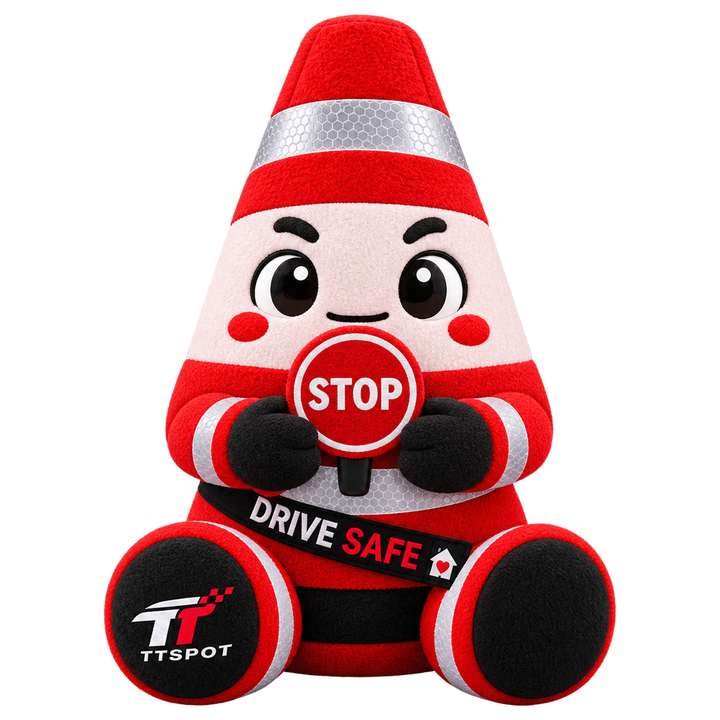
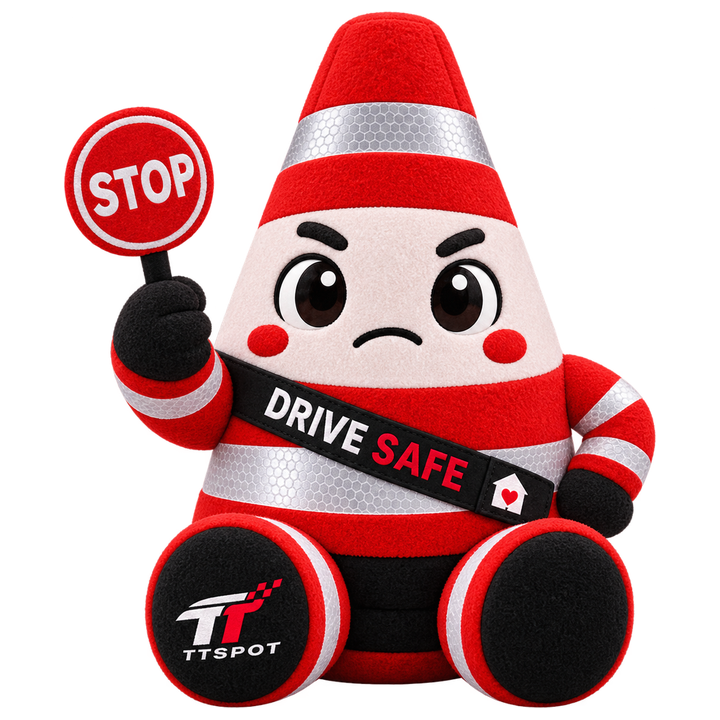
TiTi stop pose redrawn: arms from the sides like the other poses (the old render grew them out of the chest)

diff --git a/tool/art_stop_fix.py b/tool/art_stop_fix.py
@@ -1,0 +1,24 @@
+"""Redraw assets/titi/stop.png: the batch 2 render grew the arms out of the
+front of the body. Same pipeline and look as tool/art_batch2.py.
+
+  python tool/art_stop_fix.py      # two tries into tool/titi_gen/batch2/
+"""
+import os, sys
+sys.path.insert(0, os.path.dirname(os.path.abspath(__file__)))
+import art_batch2 as b2
+
+ARMS = ("ARMS, follow strictly: exactly two short plush arms, one on each SIDE of the cone body, attached at shoulder height "
+        "exactly like the thumbs-up reference; the arms are plain red-and-white plush like the body, no separate sleeves, "
+        "nothing grows out of the front of the chest; the DRIVE SAFE sash stays diagonal across the front, unbroken. ")
+STOP = [
+    ARMS + "Pose: his RIGHT arm raised out to the side holding a small round red STOP sign on a short black handle beside his head, "
+           "his LEFT mitten on his hip, serious but cute frown.",
+    ARMS + "Pose: both arms reach forward from his sides holding a small round red STOP sign on a short black handle, the sign held low "
+           "in front of his lower body so his face and the sash stay fully visible, serious but cute frown.",
+]
+
+if __name__ == '__main__':
+    card = b2.upload(os.path.join(b2.REPO, 'assets/cards/c1.jpg'))
+    good = b2.upload(os.path.join(b2.REPO, 'assets/titi/thumbsup.png'))
+    jobs = {f'titi_stop_v{i + 1}': (b2.LOOK + p, [card, good], 'transparent', '1:1') for i, p in enumerate(STOP)}
+    b2.run(jobs)
